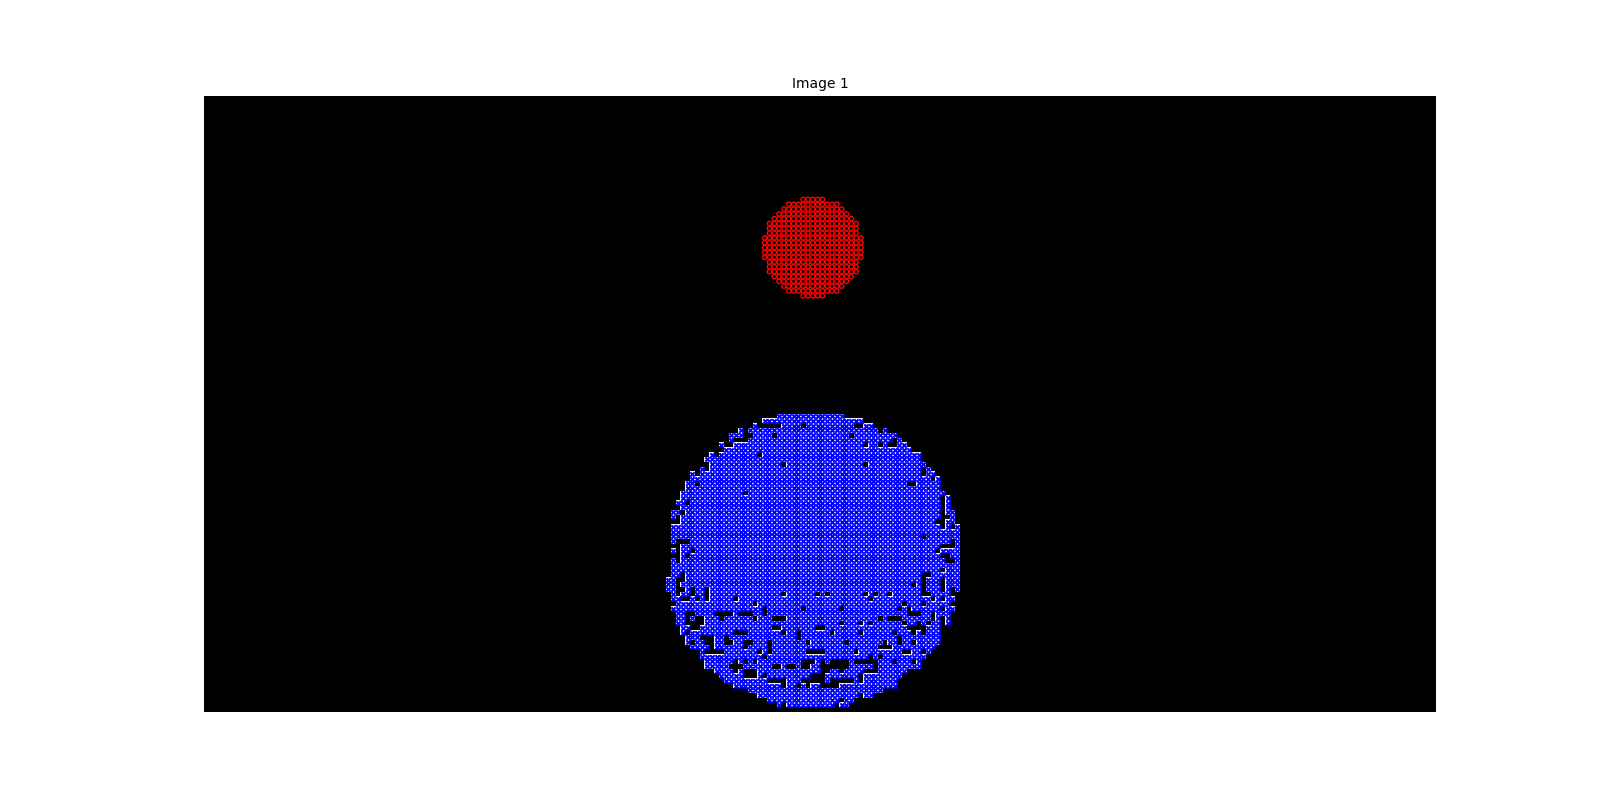
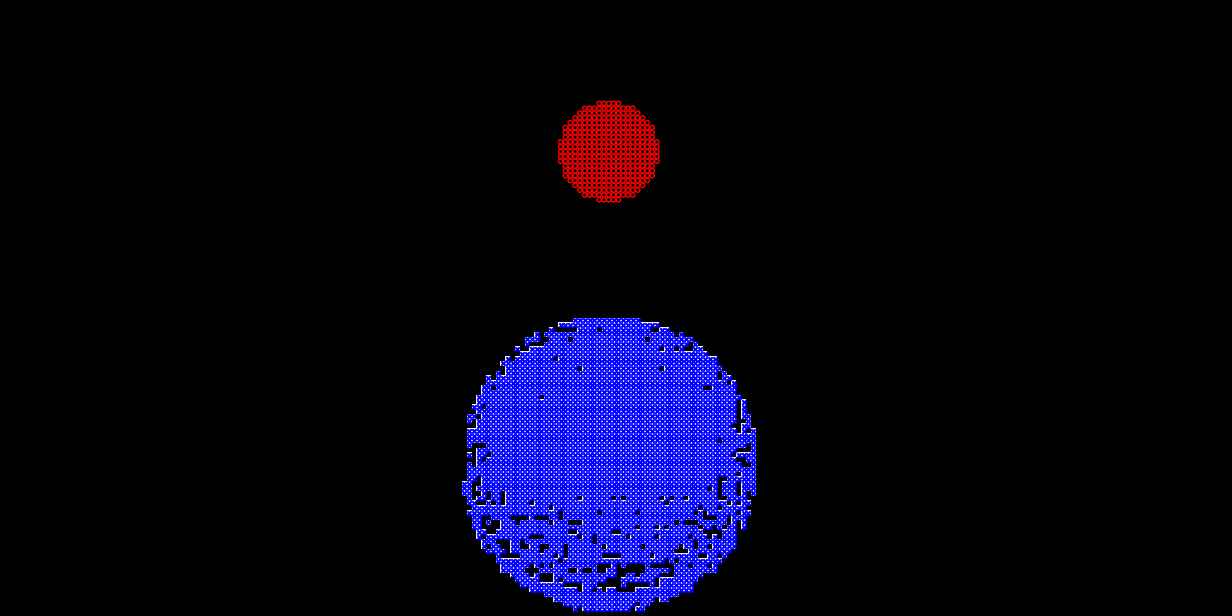
Modify pixel coloring logic

diff --git a/dep-viz.html b/dep-viz.html
@@ -3,7 +3,7 @@
 <head>
     <meta charset="UTF-8">
     <meta name="viewport" content="width=device-width, initial-scale=1.0">
-    <title>Depth Estimation Viz</title>
+    <title>Camera Calibration Viz</title>
     <script src="https://cdn.tailwindcss.com"></script>
     <link rel="preconnect" href="https://fonts.googleapis.com">
     <link rel="preconnect" href="https://fonts.gstatic.com" crossorigin>
@@ -189,7 +189,7 @@
 <body class="p-4 md:p-8">
     <div class="max-w-4xl mx-auto">
         <header class="text-center mb-6">
-            <h1 class="text-3xl md:text-4xl font-bold tracking-tight">Depth Estimation Viz</h1>
+            <h1 class="text-3xl md:text-4xl font-bold tracking-tight">Camera Calibration Viz</h1>
             <p id="mode-description" class="text-sm text-gray-400 mt-2 h-5"></p>
         </header>
 
@@ -389,9 +389,19 @@
             const data = imageData.data;
             for (let i = 0; i < data.length; i += 4) {
                 const grayscale = data[i];
-                data[i] = grayscale * (color[0] / 255);
-                data[i + 1] = grayscale * (color[1] / 255);
-                data[i + 2] = grayscale * (color[2] / 255);
+                
+                // --- Bắt đầu phần sửa đổi ---
+                if (grayscale > 0) { // Chỉ tô màu cho các pixel không phải màu đen
+                    data[i] = color[0];      // Đặt R bằng R mục tiêu
+                    data[i + 1] = color[1];  // Đặt G bằng G mục tiêu
+                    data[i + 2] = color[2];  // Đặt B bằng B mục tiêu
+                } else {
+                    // Giữ nguyên màu đen (grayscale = 0)
+                    data[i] = 0;
+                    data[i + 1] = 0;
+                    data[i + 2] = 0;
+                }
+                // --- Kết thúc phần sửa đổi ---
             }
             ctx.putImageData(imageData, 0, 0);
             const colorizedImage = new Image();

diff --git a/index.html b/index.html
@@ -389,9 +389,19 @@
             const data = imageData.data;
             for (let i = 0; i < data.length; i += 4) {
                 const grayscale = data[i];
-                data[i] = grayscale * (color[0] / 255);
-                data[i + 1] = grayscale * (color[1] / 255);
-                data[i + 2] = grayscale * (color[2] / 255);
+                
+                // --- Bắt đầu phần sửa đổi ---
+                if (grayscale > 0) { // Chỉ tô màu cho các pixel không phải màu đen
+                    data[i] = color[0];      // Đặt R bằng R mục tiêu
+                    data[i + 1] = color[1];  // Đặt G bằng G mục tiêu
+                    data[i + 2] = color[2];  // Đặt B bằng B mục tiêu
+                } else {
+                    // Giữ nguyên màu đen (grayscale = 0)
+                    data[i] = 0;
+                    data[i + 1] = 0;
+                    data[i + 2] = 0;
+                }
+                // --- Kết thúc phần sửa đổi ---
             }
             ctx.putImageData(imageData, 0, 0);
             const colorizedImage = new Image();
